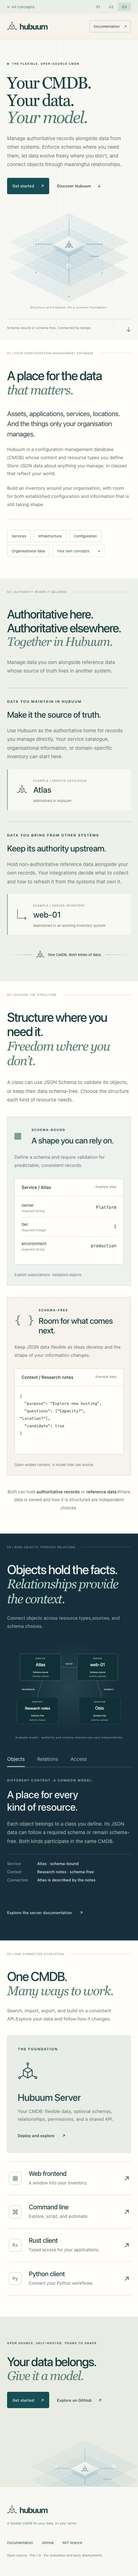
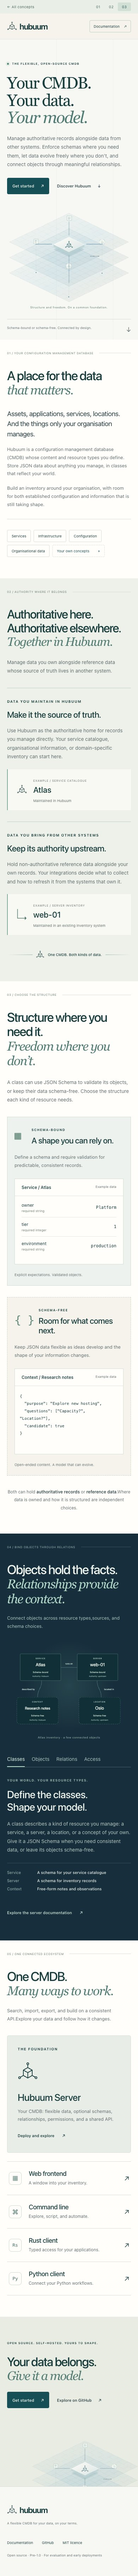
docs: introduce classes explicitly in the landing studies

Changed region(s): [[0.0615, 0.6865, 0.6462, 0.7489], [0.6462, 0.7177, 0.6769, 0.7489]]

diff --git a/design/confluence.html b/design/confluence.html
@@ -85,15 +85,17 @@
         <div class="section-label"><span>04 / Bind objects through relations</span><span class="section-rule"></span><span>Make the context useful.</span></div>
         <div class="connection-heading"><h2>Objects hold the facts.<br><em>Relationships provide<br>the context.</em></h2><p>Connect objects across resource types,<br>sources, and schema choices.</p></div>
         <div class="connection-grid">
-          <div class="model-figure"><img src="assets/relationships.svg" loading="lazy" alt="Example: schema-bound service Atlas, authoritative in Hubuum, runs on schema-bound server web-01 from an upstream source. Atlas is described by schema-free research notes owned in Hubuum. The server is located in Oslo, represented by schema-free reference data from upstream."><span class="figure-caption">Example model · authority and schema choices can vary independently</span></div>
+          <div class="model-figure"><img src="assets/relationships.svg" loading="lazy" alt="Example: schema-bound service Atlas, authoritative in Hubuum, runs on schema-bound server web-01 from an upstream source. Atlas is described by schema-free research notes owned in Hubuum. The server is located in Oslo, represented by schema-free reference data from upstream."><span class="figure-caption">Atlas inventory · a few connected objects</span></div>
           <div class="model-story">
             <div class="model-tabs" role="tablist" aria-label="Explore the model">
-              <button type="button" id="tab-model" role="tab" aria-controls="panel-model" aria-selected="true">Objects</button>
+              <button type="button" id="tab-classes" role="tab" aria-controls="panel-classes" aria-selected="true">Classes</button>
+              <button type="button" id="tab-model" role="tab" aria-controls="panel-model" aria-selected="false" tabindex="-1">Objects</button>
               <button type="button" id="tab-connect" role="tab" aria-controls="panel-connect" aria-selected="false" tabindex="-1">Relations</button>
               <button type="button" id="tab-use" role="tab" aria-controls="panel-use" aria-selected="false" tabindex="-1">Access</button>
             </div>
-            <div id="panel-model" class="model-panel" role="tabpanel" aria-labelledby="tab-model" tabindex="0"><span class="eyebrow">Different content. A common model.</span><h3>A place for every<br>kind of resource.</h3><p>Each object belongs to a class you define. Its JSON data can follow a required schema or remain schema-free. Both kinds participate in the same CMDB.</p><div class="example-detail"><span>Service</span><strong>Atlas · schema-bound</strong><span>Context</span><strong>Research notes · schema-free</strong><span>Connection</span><strong>Atlas is described by the notes</strong></div></div>
-            <div id="panel-connect" class="model-panel" role="tabpanel" aria-labelledby="tab-connect" tabindex="0" hidden><span class="eyebrow">Facts become context</span><h3>Bring the objects<br>into relation.</h3><p>Connect a service you maintain in Hubuum to server records from another inventory. Link configuration to flexible context. Build the relationships that matter to your organisation.</p><div class="example-detail"><span>Service</span><strong>Atlas</strong><span>Runs on</span><strong>web-01</strong><span>Located in</span><strong>Oslo</strong></div></div>
+            <div id="panel-classes" class="model-panel" role="tabpanel" aria-labelledby="tab-classes" tabindex="0"><span class="eyebrow">Your world. Your resource types.</span><h3>Define the classes.<br>Shape your model.</h3><p>A class describes a kind of resource you manage: a service, a server, a location, or a concept of your own. Give it a JSON Schema when you need consistent data, or leave its objects schema-free.</p><div class="example-detail"><span>Service</span><strong>A schema for your service catalogue</strong><span>Server</span><strong>A schema for inventory records</strong><span>Context</span><strong>Free-form notes and observations</strong></div></div>
+            <div id="panel-model" class="model-panel" role="tabpanel" aria-labelledby="tab-model" tabindex="0" hidden><span class="eyebrow">Different content. A common model.</span><h3>A place for every<br>kind of resource.</h3><p>An object is one instance of a class: Atlas is a Service, web-01 is a Server. Each holds its own JSON data, following its class’s schema policy. Schema-bound and schema-free objects participate in the same CMDB.</p><div class="example-detail"><span>Service</span><strong>Atlas · schema-bound</strong><span>Context</span><strong>Research notes · schema-free</strong><span>Connection</span><strong>Atlas is described by the notes</strong></div></div>
+            <div id="panel-connect" class="model-panel" role="tabpanel" aria-labelledby="tab-connect" tabindex="0" hidden><span class="eyebrow">Facts become context</span><h3>Bring the objects<br>into relation.</h3><p>Class relations define connections between resource types. Object relations connect their instances: Atlas in Service runs on web-01 in Server. Connect records across sources and schema choices.</p><div class="example-detail"><span>Service</span><strong>Atlas</strong><span>Runs on</span><strong>web-01</strong><span>Located in</span><strong>Oslo</strong></div></div>
             <div id="panel-use" class="model-panel" role="tabpanel" aria-labelledby="tab-use" tabindex="0" hidden><span class="eyebrow">A shared model. Intentional access.</span><h3>Give people the<br>access they need.</h3><p>Organise resources in collections and control access through group permissions. Give people and service accounts responsibilities that fit how you work.</p><div class="example-detail"><span>Organise</span><strong>Collections</strong><span>People</span><strong>Users and groups</strong><span>Automation</span><strong>Service accounts</strong></div></div>
             <a class="text-link" href="https://hubuum.github.io/hubuum/">Explore the server documentation <span aria-hidden="true">↗</span></a>
           </div>

diff --git a/design/fabric.html b/design/fabric.html
@@ -85,15 +85,17 @@
         <div class="section-label"><span>04 / Bind objects through relations</span><span class="section-rule"></span><span>Make the context useful.</span></div>
         <div class="connection-heading"><h2>Objects hold the facts.<br><em>Relationships provide<br>the context.</em></h2><p>Connect objects across resource types,<br>sources, and schema choices.</p></div>
         <div class="connection-grid">
-          <div class="model-figure"><img src="assets/relationships.svg" loading="lazy" alt="Example: schema-bound service Atlas, authoritative in Hubuum, runs on schema-bound server web-01 from an upstream source. Atlas is described by schema-free research notes owned in Hubuum. The server is located in Oslo, represented by schema-free reference data from upstream."><span class="figure-caption">Example model · authority and schema choices can vary independently</span></div>
+          <div class="model-figure"><img src="assets/relationships.svg" loading="lazy" alt="Example: schema-bound service Atlas, authoritative in Hubuum, runs on schema-bound server web-01 from an upstream source. Atlas is described by schema-free research notes owned in Hubuum. The server is located in Oslo, represented by schema-free reference data from upstream."><span class="figure-caption">Atlas inventory · a few connected objects</span></div>
           <div class="model-story">
             <div class="model-tabs" role="tablist" aria-label="Explore the model">
-              <button type="button" id="tab-model" role="tab" aria-controls="panel-model" aria-selected="true">Objects</button>
+              <button type="button" id="tab-classes" role="tab" aria-controls="panel-classes" aria-selected="true">Classes</button>
+              <button type="button" id="tab-model" role="tab" aria-controls="panel-model" aria-selected="false" tabindex="-1">Objects</button>
               <button type="button" id="tab-connect" role="tab" aria-controls="panel-connect" aria-selected="false" tabindex="-1">Relations</button>
               <button type="button" id="tab-use" role="tab" aria-controls="panel-use" aria-selected="false" tabindex="-1">Access</button>
             </div>
-            <div id="panel-model" class="model-panel" role="tabpanel" aria-labelledby="tab-model" tabindex="0"><span class="eyebrow">Different content. A common model.</span><h3>A place for every<br>kind of resource.</h3><p>Each object belongs to a class you define. Its JSON data can follow a required schema or remain schema-free. Both kinds participate in the same CMDB.</p><div class="example-detail"><span>Service</span><strong>Atlas · schema-bound</strong><span>Context</span><strong>Research notes · schema-free</strong><span>Connection</span><strong>Atlas is described by the notes</strong></div></div>
-            <div id="panel-connect" class="model-panel" role="tabpanel" aria-labelledby="tab-connect" tabindex="0" hidden><span class="eyebrow">Facts become context</span><h3>Bring the objects<br>into relation.</h3><p>Connect a service you maintain in Hubuum to server records from another inventory. Link configuration to flexible context. Build the relationships that matter to your organisation.</p><div class="example-detail"><span>Service</span><strong>Atlas</strong><span>Runs on</span><strong>web-01</strong><span>Located in</span><strong>Oslo</strong></div></div>
+            <div id="panel-classes" class="model-panel" role="tabpanel" aria-labelledby="tab-classes" tabindex="0"><span class="eyebrow">Your world. Your resource types.</span><h3>Define the classes.<br>Shape your model.</h3><p>A class describes a kind of resource you manage: a service, a server, a location, or a concept of your own. Give it a JSON Schema when you need consistent data, or leave its objects schema-free.</p><div class="example-detail"><span>Service</span><strong>A schema for your service catalogue</strong><span>Server</span><strong>A schema for inventory records</strong><span>Context</span><strong>Free-form notes and observations</strong></div></div>
+            <div id="panel-model" class="model-panel" role="tabpanel" aria-labelledby="tab-model" tabindex="0" hidden><span class="eyebrow">Different content. A common model.</span><h3>A place for every<br>kind of resource.</h3><p>An object is one instance of a class: Atlas is a Service, web-01 is a Server. Each holds its own JSON data, following its class’s schema policy. Schema-bound and schema-free objects participate in the same CMDB.</p><div class="example-detail"><span>Service</span><strong>Atlas · schema-bound</strong><span>Context</span><strong>Research notes · schema-free</strong><span>Connection</span><strong>Atlas is described by the notes</strong></div></div>
+            <div id="panel-connect" class="model-panel" role="tabpanel" aria-labelledby="tab-connect" tabindex="0" hidden><span class="eyebrow">Facts become context</span><h3>Bring the objects<br>into relation.</h3><p>Class relations define connections between resource types. Object relations connect their instances: Atlas in Service runs on web-01 in Server. Connect records across sources and schema choices.</p><div class="example-detail"><span>Service</span><strong>Atlas</strong><span>Runs on</span><strong>web-01</strong><span>Located in</span><strong>Oslo</strong></div></div>
             <div id="panel-use" class="model-panel" role="tabpanel" aria-labelledby="tab-use" tabindex="0" hidden><span class="eyebrow">A shared model. Intentional access.</span><h3>Give people the<br>access they need.</h3><p>Organise resources in collections and control access through group permissions. Give people and service accounts responsibilities that fit how you work.</p><div class="example-detail"><span>Organise</span><strong>Collections</strong><span>People</span><strong>Users and groups</strong><span>Automation</span><strong>Service accounts</strong></div></div>
             <a class="text-link" href="https://hubuum.github.io/hubuum/">Explore the server documentation <span aria-hidden="true">↗</span></a>
           </div>

diff --git a/design/orbit.html b/design/orbit.html
@@ -85,15 +85,17 @@
         <div class="section-label"><span>04 / Bind objects through relations</span><span class="section-rule"></span><span>Make the context useful.</span></div>
         <div class="connection-heading"><h2>Objects hold the facts.<br><em>Relationships provide<br>the context.</em></h2><p>Connect objects across resource types,<br>sources, and schema choices.</p></div>
         <div class="connection-grid">
-          <div class="model-figure"><img src="assets/relationships.svg" loading="lazy" alt="Example: schema-bound service Atlas, authoritative in Hubuum, runs on schema-bound server web-01 from an upstream source. Atlas is described by schema-free research notes owned in Hubuum. The server is located in Oslo, represented by schema-free reference data from upstream."><span class="figure-caption">Example model · authority and schema choices can vary independently</span></div>
+          <div class="model-figure"><img src="assets/relationships.svg" loading="lazy" alt="Example: schema-bound service Atlas, authoritative in Hubuum, runs on schema-bound server web-01 from an upstream source. Atlas is described by schema-free research notes owned in Hubuum. The server is located in Oslo, represented by schema-free reference data from upstream."><span class="figure-caption">Atlas inventory · a few connected objects</span></div>
           <div class="model-story">
             <div class="model-tabs" role="tablist" aria-label="Explore the model">
-              <button type="button" id="tab-model" role="tab" aria-controls="panel-model" aria-selected="true">Objects</button>
+              <button type="button" id="tab-classes" role="tab" aria-controls="panel-classes" aria-selected="true">Classes</button>
+              <button type="button" id="tab-model" role="tab" aria-controls="panel-model" aria-selected="false" tabindex="-1">Objects</button>
               <button type="button" id="tab-connect" role="tab" aria-controls="panel-connect" aria-selected="false" tabindex="-1">Relations</button>
               <button type="button" id="tab-use" role="tab" aria-controls="panel-use" aria-selected="false" tabindex="-1">Access</button>
             </div>
-            <div id="panel-model" class="model-panel" role="tabpanel" aria-labelledby="tab-model" tabindex="0"><span class="eyebrow">Different content. A common model.</span><h3>A place for every<br>kind of resource.</h3><p>Each object belongs to a class you define. Its JSON data can follow a required schema or remain schema-free. Both kinds participate in the same CMDB.</p><div class="example-detail"><span>Service</span><strong>Atlas · schema-bound</strong><span>Context</span><strong>Research notes · schema-free</strong><span>Connection</span><strong>Atlas is described by the notes</strong></div></div>
-            <div id="panel-connect" class="model-panel" role="tabpanel" aria-labelledby="tab-connect" tabindex="0" hidden><span class="eyebrow">Facts become context</span><h3>Bring the objects<br>into relation.</h3><p>Connect a service you maintain in Hubuum to server records from another inventory. Link configuration to flexible context. Build the relationships that matter to your organisation.</p><div class="example-detail"><span>Service</span><strong>Atlas</strong><span>Runs on</span><strong>web-01</strong><span>Located in</span><strong>Oslo</strong></div></div>
+            <div id="panel-classes" class="model-panel" role="tabpanel" aria-labelledby="tab-classes" tabindex="0"><span class="eyebrow">Your world. Your resource types.</span><h3>Define the classes.<br>Shape your model.</h3><p>A class describes a kind of resource you manage: a service, a server, a location, or a concept of your own. Give it a JSON Schema when you need consistent data, or leave its objects schema-free.</p><div class="example-detail"><span>Service</span><strong>A schema for your service catalogue</strong><span>Server</span><strong>A schema for inventory records</strong><span>Context</span><strong>Free-form notes and observations</strong></div></div>
+            <div id="panel-model" class="model-panel" role="tabpanel" aria-labelledby="tab-model" tabindex="0" hidden><span class="eyebrow">Different content. A common model.</span><h3>A place for every<br>kind of resource.</h3><p>An object is one instance of a class: Atlas is a Service, web-01 is a Server. Each holds its own JSON data, following its class’s schema policy. Schema-bound and schema-free objects participate in the same CMDB.</p><div class="example-detail"><span>Service</span><strong>Atlas · schema-bound</strong><span>Context</span><strong>Research notes · schema-free</strong><span>Connection</span><strong>Atlas is described by the notes</strong></div></div>
+            <div id="panel-connect" class="model-panel" role="tabpanel" aria-labelledby="tab-connect" tabindex="0" hidden><span class="eyebrow">Facts become context</span><h3>Bring the objects<br>into relation.</h3><p>Class relations define connections between resource types. Object relations connect their instances: Atlas in Service runs on web-01 in Server. Connect records across sources and schema choices.</p><div class="example-detail"><span>Service</span><strong>Atlas</strong><span>Runs on</span><strong>web-01</strong><span>Located in</span><strong>Oslo</strong></div></div>
             <div id="panel-use" class="model-panel" role="tabpanel" aria-labelledby="tab-use" tabindex="0" hidden><span class="eyebrow">A shared model. Intentional access.</span><h3>Give people the<br>access they need.</h3><p>Organise resources in collections and control access through group permissions. Give people and service accounts responsibilities that fit how you work.</p><div class="example-detail"><span>Organise</span><strong>Collections</strong><span>People</span><strong>Users and groups</strong><span>Automation</span><strong>Service accounts</strong></div></div>
             <a class="text-link" href="https://hubuum.github.io/hubuum/">Explore the server documentation <span aria-hidden="true">↗</span></a>
           </div>

diff --git a/design/assets/site.css b/design/assets/site.css
@@ -390,7 +390,7 @@ h1 { font-size: clamp(3.4rem, 5.4vw, 5.2rem); line-height: 1.055; }
   .figure-caption { font-size: 8px; margin-top: 0; }
   .model-panel { min-height: 345px; }
   .model-panel h3 { font-size: 29px; }
-  .model-tabs { gap: 35px; margin-bottom: 25px; }
+  .model-tabs { gap: clamp(14px, 5vw, 25px); margin-bottom: 25px; }
   .example-detail { grid-template-columns: 65px 1fr; font-size: 11px; }
   .ecosystem-heading { display: block; margin-bottom: 35px; }
   .ecosystem-heading > p { max-width: none; margin-top: 24px; font-size: 13px; }

diff --git a/design/README.md b/design/README.md
@@ -39,7 +39,9 @@ introduces the kinds of data you can manage, authoritative records and upstream
 reference data, schema-bound and schema-free classes, relations, and the ecosystem.
 Authority and structure are independent choices: both schema approaches can hold
 either kind of data. The example model illustrates all four combinations.
-The Objects / Relations / Access controls work with a mouse, touch, or arrow keys.
+The Classes / Objects / Relations / Access controls work with a mouse, touch, or arrow keys.
+Classes define resource types and their schema policy; objects are instances of
+those classes, with their own JSON data.
 The content is readable without JavaScript, and reduced-motion preferences
 disable the short entrance effects. There is no scroll interception.
 
